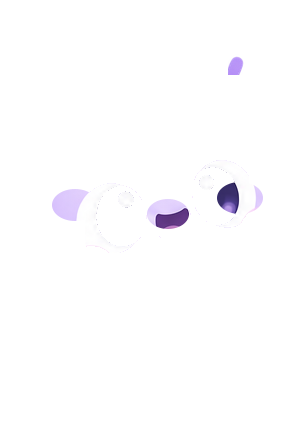
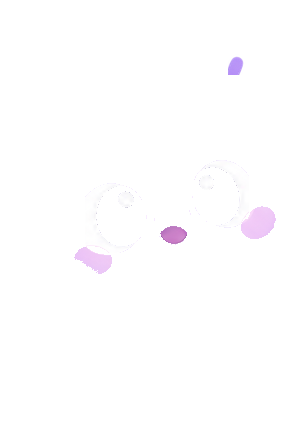
유년기~성체 볼·입 위치가 엉뚱한 곳에 떠 있던 타원 문제 수정
사용자 신고(스크린샷): "입 근처에 타원 하나랑 왼쪽눈 옆에 타원 하나도 지워줘" — 볼
홍조·입을 표시하는 fixed 타원의 좌표를 눈대중으로 잘못 잡아서, 실제 볼/입 위치가 아닌
엉뚱한 자리에 별개의 타원처럼 떠 보였다.

흰자·눈동자를 고칠 때 썼던 것과 같은 원리로 해결 — 좌표를 다시 추측하는 대신, 볼·입
특유의 색(라벤더 몸통과 달리 R·B가 높고 G만 낮은 핑크빛)을 픽셀 단위로 스캔해서 실제
위치를 그대로 찾아 쓰도록 바꿨다(cheekMouthBox). stage-4는 처음에 코인 장식을 피하려고
탐색 범위를 너무 좁게 잘라서 오른쪽 볼이 통째로 빠졌던 것도 코인이 실제로는 더 위쪽
(y<175)에만 있다는 걸 확인하고 범위를 넓혀 고쳤다.

diff --git a/design-assets/extract-pet-layers.js b/design-assets/extract-pet-layers.js
@@ -1,5 +1,5 @@
 // 참고 이미지(사용자 제공, design-assets/pet-mascot-reference.png)를 부위별 레이어로 분리하는
-// 스크립트(2026-09-15, 5차 수정) — public/pets/*-gray.png·*-fixed.png가 이 스크립트의 결과물이다.
+// 스크립트(2026-09-15, 6차 수정) — public/pets/*-gray.png·*-fixed.png가 이 스크립트의 결과물이다.
 // 재실행: `node design-assets/extract-pet-layers.js` (프로젝트 루트에서, sharp가 있어야 함).
 //
 // 이력(요약): 1차 도형 마스크 → 2차 알 단계 눈·잎사귀 보정 → 3차 dest-in/out이 알파 채널로만
@@ -54,11 +54,11 @@ const STAGES = {
     eyeBoxes: [{ x0: 75, x1: 148, y0: 145, y1: 222 }, { x0: 132, x1: 225, y0: 135, y1: 218 }],
     pupilDark: true,
     eyeWhite: true,
-    fixed: [
-      ellipse(148, 197, 19, 13),
-      ellipse(70, 188, 20, 14), ellipse(213, 182, 20, 14),
-      ellipse(240, 50, 26, 26),
-    ],
+    // 볼·입은 좌표를 눈대중으로 잡았더니 실제 위치와 안 맞아서(2026-09-15 사용자 스크린샷 신고:
+    // "입 근처 타원 하나, 왼쪽 눈 옆 타원 하나") 엉뚱한 자리에 떠 있는 타원처럼 보였다 — 흰자와
+    // 같은 방식으로, 색(핑크빛: R·B는 높고 G만 낮음, 라벤더 몸통과 다름)으로 실제 위치를 찾는다.
+    cheekMouthBox: { boxes: [{ x0: 0, x1: 278, y0: 150, y1: 260 }] },
+    fixed: [ellipse(240, 50, 26, 26)], // 하트 장식만 도형으로 남김
   },
   "stage-3": {
     leaf: [ellipse(135, 70, 95, 62)],
@@ -66,11 +66,8 @@ const STAGES = {
     eyeBoxes: [{ x0: 85, x1: 155, y0: 175, y1: 252 }, { x0: 145, x1: 248, y0: 155, y1: 250 }],
     pupilDark: true,
     eyeWhite: true,
-    fixed: [
-      ellipse(168, 214, 21, 15),
-      ellipse(75, 205, 23, 16), ellipse(240, 198, 23, 16),
-      rect(228, 10, 45, 65),
-    ],
+    cheekMouthBox: { boxes: [{ x0: 0, x1: 286, y0: 180, y1: 290 }] },
+    fixed: [rect(228, 10, 45, 65)], // 우측 상단 모션 라인만 도형으로 남김
   },
   "stage-4": {
     leaf: [ellipse(147, 85, 112, 72)],
@@ -78,11 +75,10 @@ const STAGES = {
     eyeBoxes: [{ x0: 110, x1: 205, y0: 210, y1: 296 }, { x0: 185, x1: 302, y0: 180, y1: 300 }],
     pupilDark: true,
     eyeWhite: true,
-    fixed: [
-      ellipse(222, 259, 27, 17),
-      ellipse(115, 271, 27, 17), ellipse(290, 251, 27, 17),
-      rect(255, 0, 106, 175),
-    ],
+    // 코인·반짝임은 y<175에만 있어서(rect 255,0,106,175) x는 안 끊어도 안전 — 오른쪽 볼이 x=284
+    // 근처까지 있어서 처음에 x1을 250으로 좁혔다가 오른쪽 볼이 통째로 잘려나갔었다(수정).
+    cheekMouthBox: { boxes: [{ x0: 0, x1: 340, y0: 220, y1: 340 }] },
+    fixed: [rect(255, 0, 106, 175)], // 코인+반짝임만 도형으로 남김
   },
   "stage-3-sulking": {
     // 크롭 직후 좌상단에 stage-4의 코인/반짝임이 새어 들어와서 지워야 한다(eraseFirst).
@@ -170,7 +166,7 @@ async function run() {
       await sharp(grayBuf).composite([{ input: pupilMask, blend: "dest-in" }]).png().toFile(path.join(DIR, `${stage}-pupils-gray.png`));
     }
 
-    // 고정 요소(원색 그대로) = 흰자(색 임계값, 있으면) ∪ 나머지 fixed 도형들
+    // 고정 요소(원색 그대로) = 흰자·볼·입(색 임계값, 있으면) ∪ 나머지 fixed 도형들
     const fixedParts = cfg.fixed ? [maskSvg(w, h, cfg.fixed)] : [];
     if (cfg.eyeWhite) {
       const whiteMask = await buildMaskFromPredicate(srcBuf, (r, g, b, a, x, y) => {
@@ -179,6 +175,15 @@ async function run() {
         return minC > WHITE_MIN_CHANNEL && maxC - minC < WHITE_MAX_SPREAD;
       });
       fixedParts.push(whiteMask);
+    }
+    if (cfg.cheekMouthBox) {
+      // 볼 홍조·입은 라벤더 몸통과 달리 R·B가 높고 G만 낮은 핑크빛 — 이 색 신호로 실제 위치를 찾는다
+      // (2026-09-15 5차 수정에서 좌표를 눈대중으로 잡았다가 엉뚱한 자리에 떠서 이번에 바꿨다).
+      const pinkMask = await buildMaskFromPredicate(srcBuf, (r, g, b, a, x, y) => {
+        if (!inBoxes(cfg.cheekMouthBox.boxes, x, y) || a <= 40) return false;
+        return (r + b) / 2 - g > 30 && Math.abs(r - b) < 15;
+      });
+      fixedParts.push(pinkMask);
     }
     if (fixedParts.length > 0) {
       const fixedMask = await unionAlpha(fixedParts);
